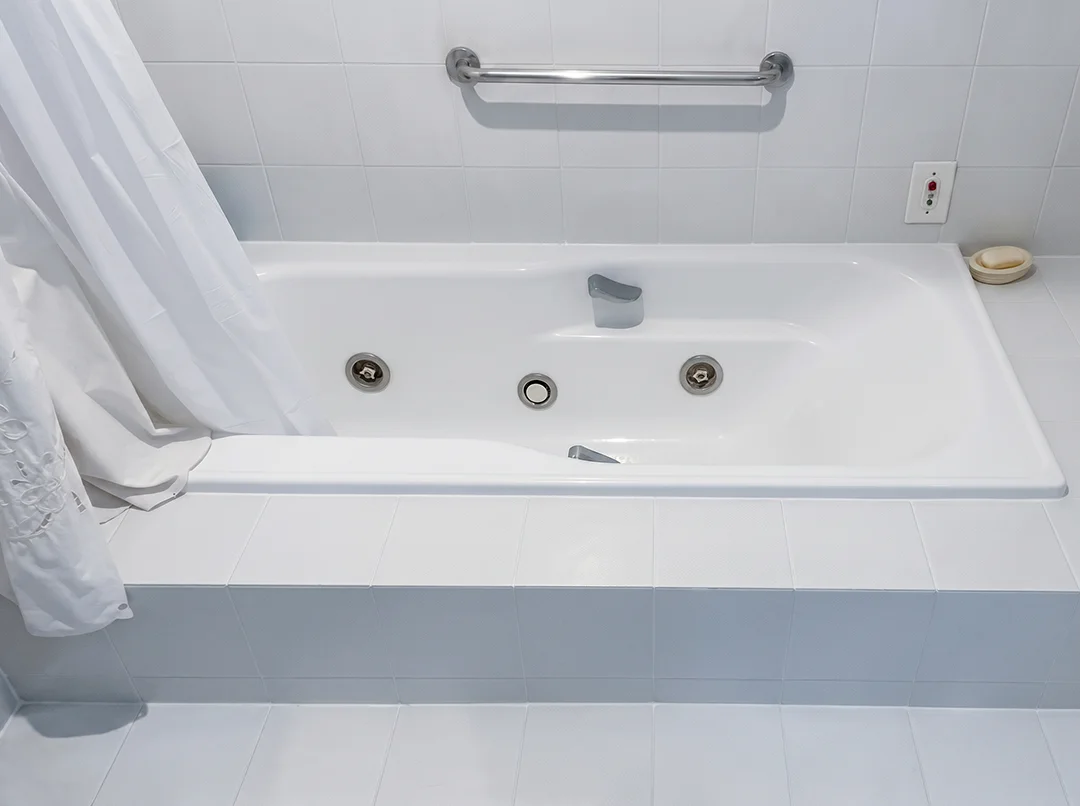
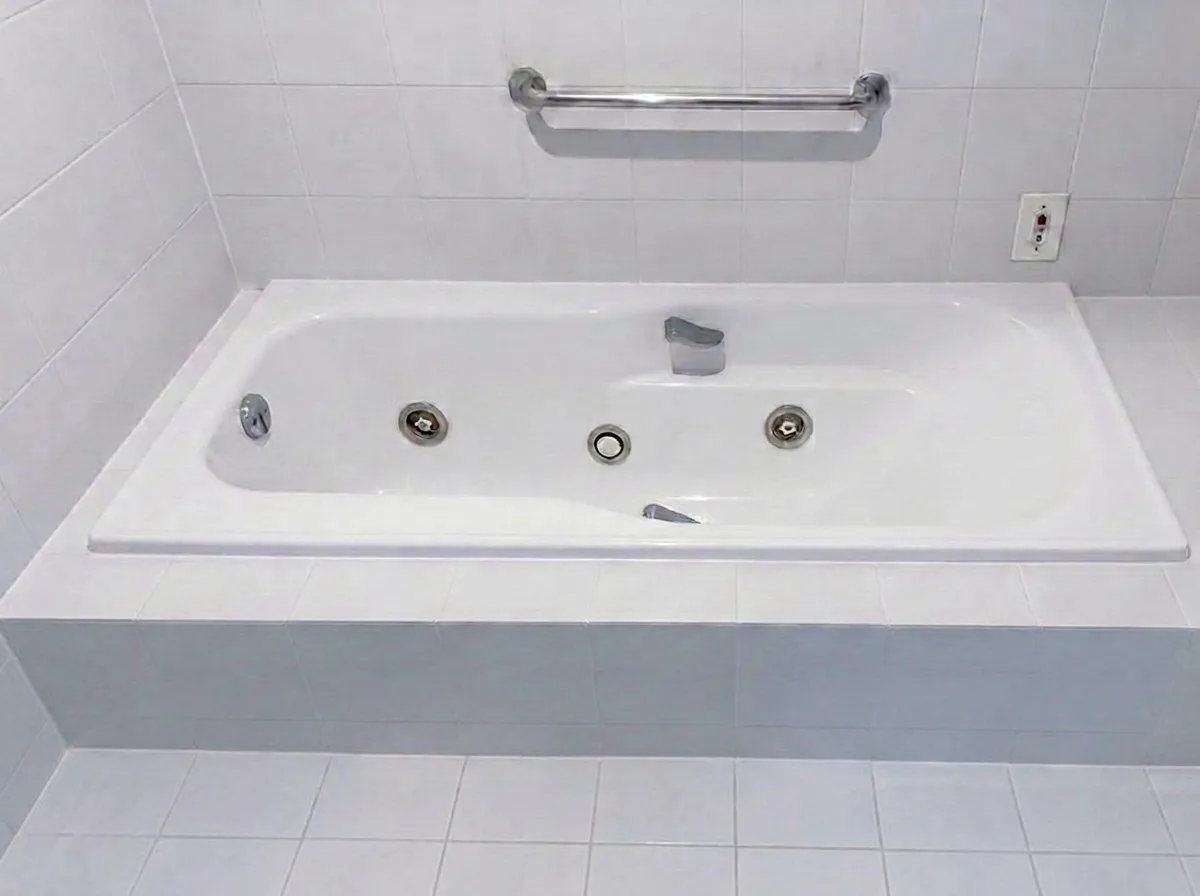
ajuste(tipos-de-tina): textos de los 6 tipos, nota de imagen referencial y fotos nuevas
- Intro: "Todas las tinas se pueden rebajar" + parrafo justificado.
- Renombra el tipo a "Tina tradicional (esmaltada o acrilica)" (id sin cambios).
- Ajusta "Como reconocerla" / "Con el rebaje" de los 6 tipos segun revision del cliente.
- Agrega nota aclaratoria "Imagen referencial: ..." bajo cada tarjeta.
- Fotos nuevas de hidromasaje (antes/despues), acero-acrilica (despues) y tina a
  medida (antes/despues); los .webp se regeneran desde originales/ con watermark.
- Guarda los PNG fuente en originales/_png/ (fuera del espejo a public/).

diff --git a/src/data/tinas.ts b/src/data/tinas.ts
@@ -17,27 +17,27 @@ export interface TipoTina {
 export const TIPOS_TINA: TipoTina[] = [
   {
     id: 'acero-acrilica',
-    name: 'Tina acero esmaltado o acrílica',
+    name: 'Tina tradicional (esmaltada o acrílica)',
     image: '/images/tinas/Tina acero esmaltado o acrílica.webp',
     imageAfter: '/images/tinas/Tina acero esmaltado o acrílica despues.webp',
-    comoReconocerla: 'Es la más común en departamentos y casas nuevas. Pared delgada y liviana: al golpearla suena hueca y el borde se siente algo flexible. La acrílica es tibia al tacto; la de acero esmaltado, fría.',
-    conRebaje: 'Es el caso más simple: el corte es limpio y la pieza se instala el mismo día, en menos de 2 horas.',
+    comoReconocerla: 'Es la más común en departamentos y casas nuevas. Faldón delgado y liviano: al golpearla suena hueca. La tina acrílica es tibia al tacto; la tina de acero esmaltado, fría.',
+    conRebaje: 'Es el caso más simple: el corte es limpio y la pieza se instala el mismo día, en menos de 40 minutos.',
   },
   {
     id: 'hidromasaje',
     name: 'Tina hidromasaje',
-    image: '/images/tinas/Tina hidromasaje copia.webp',
-    imageAfter: '/images/tinas/Tina hidromasaje copia despues.webp',
-    comoReconocerla: 'Tiene jets en las paredes internas, panel de control y un faldón que oculta la bomba y las mangueras.',
-    conRebaje: 'Sí se puede rebajar. El técnico revisa dónde pasan las mangueras y los jets para definir el punto de corte sin tocar el sistema de hidromasaje.',
+    image: '/images/tinas/Tina hidromasaje.webp',
+    imageAfter: '/images/tinas/Tina hidromasaje despues.webp',
+    comoReconocerla: 'Tiene jets en las paredes internas, panel de control eléctrico y un faldón que oculta la bomba, las mangueras y el motor.',
+    conRebaje: 'Sí se puede rebajar. El técnico revisa dónde pasan las mangueras, el motor y los jets para definir el punto de corte, dejando el sistema inhabilitado.',
   },
   {
     id: 'fierro-fundido',
     name: 'Tina fierro fundido',
     image: '/images/tinas/Tina fierro fundido.webp',
     imageAfter: '/images/tinas/Tina fierro fundido despues.webp',
-    comoReconocerla: 'Típica de casas antiguas: muy pesada, borde grueso, esmalte brillante y suena macizo al golpearla. Suele tener puntos de óxido en el desagüe.',
-    conRebaje: 'Se rebaja igual, con herramienta de corte para material macizo. Toma un poco más de tiempo que una tina de acero o acrílica.',
+    comoReconocerla: 'Típica de casas de los años 30 al 60: muy pesada, borde grueso, esmalte brillante y suena macizo al golpearla. Suele tener puntos de óxido en el desagüe.',
+    conRebaje: 'Toma un poco más de tiempo que una tina de acero o acrílica: 2 horas aproximadamente.',
   },
   {
     id: 'especial-1',
@@ -45,8 +45,8 @@ export const TIPOS_TINA: TipoTina[] = [
     nota: 'Borde grueso',
     image: '/images/tinas/Tina especial borde grueso.webp',
     imageAfter: '/images/tinas/Tina especial borde grueso despues.webp',
-    comoReconocerla: 'El borde es ancho (una repisa de varios centímetros) o está rematado en cerámica o cubierta de albañilería.',
-    conRebaje: 'Requiere medir el ancho del borde antes de la visita para elegir la pieza correcta. Envíanos una foto y te confirmamos la factibilidad.',
+    comoReconocerla: 'El borde es ancho, faldón sobresaliente, terminación en cerámica o cubierta de albañilería.',
+    conRebaje: 'Requiere medir el ancho del borde antes de la instalación para elegir la pieza correcta.',
   },
   {
     id: 'especial-2',
@@ -55,7 +55,7 @@ export const TIPOS_TINA: TipoTina[] = [
     image: '/images/tinas/Tina especial con mampara o shower door.webp',
     imageAfter: '/images/tinas/Tina especial con mampara o shower door despues.webp',
     comoReconocerla: 'Tiene una mampara de vidrio o un shower door montado sobre el borde de la tina.',
-    conRebaje: 'La mampara se retira o se recorta según el modelo para dejar libre el paso. Lo revisamos contigo antes de agendar.',
+    conRebaje: 'La mampara o shower door se puede retirar y se instala un kit riel de cortina de Ducha Segura®, o se puede mantener dependiendo de factibilidad técnica. Lo revisamos contigo antes de agendar.',
   },
   {
     id: 'especial-3',
@@ -63,8 +63,8 @@ export const TIPOS_TINA: TipoTina[] = [
     nota: 'Forma especial',
     image: '/images/tinas/Tina a medida forma especial.webp',
     imageAfter: '/images/tinas/Tina a medida forma especial despues.webp',
-    comoReconocerla: 'Tinas de esquina, ovaladas, empotradas en un podio o hechas a la medida del baño.',
-    conRebaje: 'Se resuelve con una pieza a medida. Necesitamos fotos y medidas para cotizarla.',
+    comoReconocerla: 'Tinas o hidromasajes, empotradas en un podio o hechas a la medida del baño.',
+    conRebaje: 'Al ser fabricantes de productos, se resuelve con una pieza a medida. Necesitamos fotos y medidas para cotizarla.',
   },
   { id: 'no-se',          name: 'No sé qué tipo de tina es', nota: 'Te ayudamos',  image: '/images/tinas/no-se.svg' },
 ];
